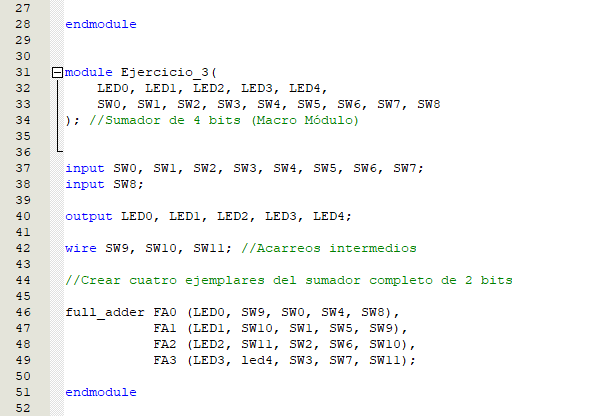
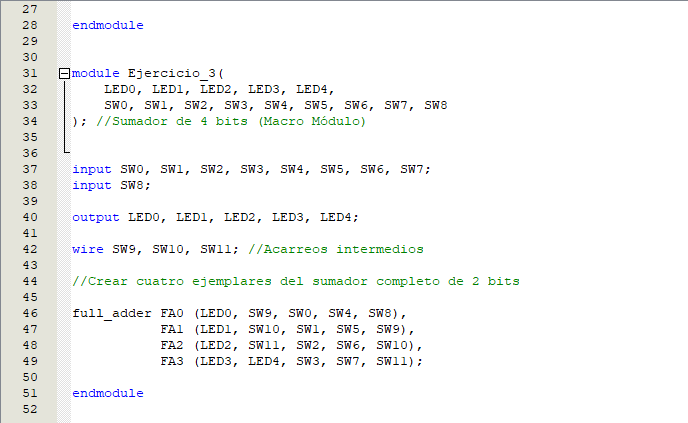
Se añadieron los ejercicios de sustentación del 4-6

diff --git a/Ejercicio_5/Ejercicio_5.md b/Ejercicio_5/Ejercicio_5.md
@@ -4,4 +4,4 @@ Código y Pin-planner
 
 ![alt text](image-1.png)
 
-[⋆Da click aquí para acceder al video con la sustentación⋆](link video)
+[⋆Da click aquí para acceder al video con la sustentación⋆]( https://youtube.com/shorts/ZVwxBCu_4Zc?si=R4V_HN-AAoazM0qr)

diff --git a/Ejercicio_4/Ejercicio_4.md b/Ejercicio_4/Ejercicio_4.md
@@ -4,4 +4,4 @@ Código y Pin-planner
 
 ![alt text](image-1.png)
 
-[⋆Da click aquí para acceder al video con la sustentación⋆](link video)
+[⋆Da click aquí para acceder al video con la sustentación⋆](https://youtube.com/shorts/MyhM7s-Kjak?si=aiP_MJdt7ogG-L-l)

diff --git a/Ejercicio_6/Ejercicio_6.md b/Ejercicio_6/Ejercicio_6.md
@@ -6,4 +6,4 @@ Código y Pin-planner
 
 ![alt text](image-1.png)
 
-[⋆Da click aquí para acceder al video con la sustentación⋆](link video)
+[⋆Da click aquí para acceder al video con la sustentación⋆](https://youtu.be/2D9HsGCgCnM?si=5Q6xhUHywI86r2vo)
